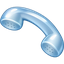
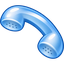
style(msn): novo ícone de telefone e mesma opacidade nos ícones da barra (Bloquear sem opacidade)
Claude-Session: https://claude.ai/code/session_01Mid4p2LXnqHyzro7Apbgvg

diff --git a/src/styles/msn.css b/src/styles/msn.css
@@ -1094,3 +1094,16 @@ button.msn-aba-x:hover {
 .msn-quadro img[src*="thiago-retro"] {
   image-rendering: pixelated;
 }
+
+/* Ícones da barra da conversa: mesma opacidade; o Bloquear fica sem opacidade */
+.msn-ferramenta img {
+  opacity: 0.72;
+  transition: opacity 0.15s;
+}
+.msn-ferramenta:hover img,
+.msn-ferramenta:focus-visible img {
+  opacity: 1;
+}
+.msn-bloquear img {
+  opacity: 1;
+}
